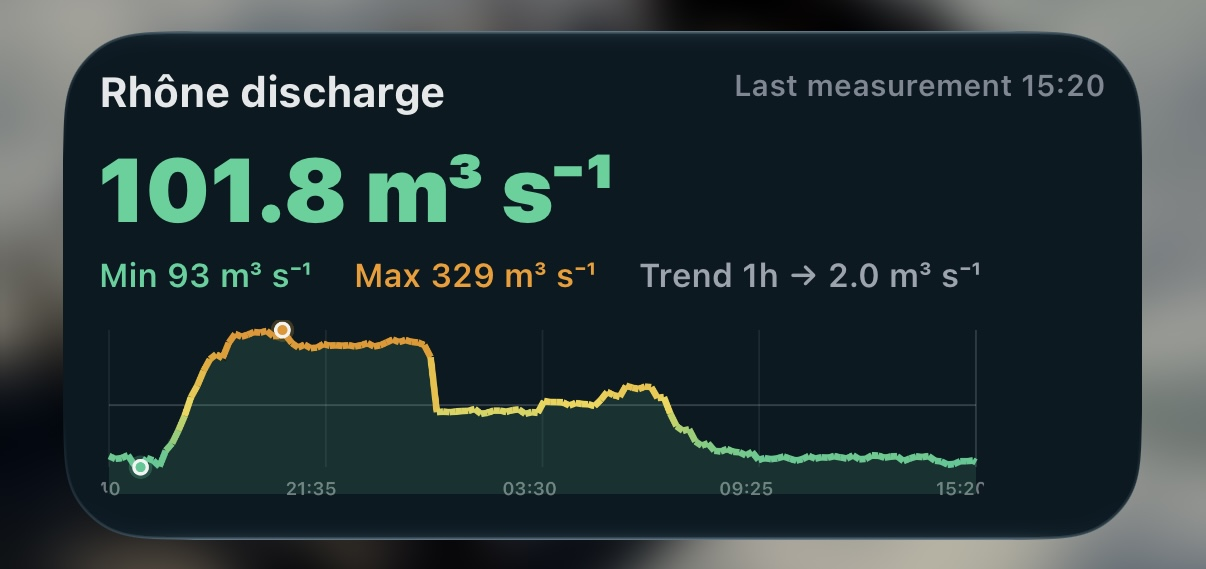
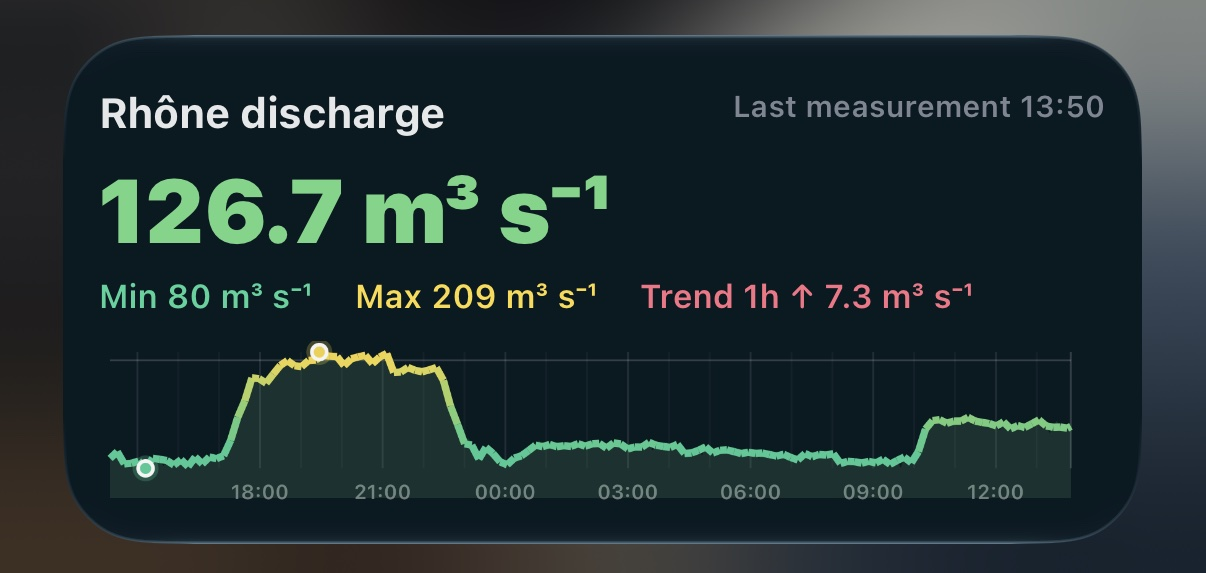
Update README for device-sized chart and refresh screenshot

diff --git a/README.md b/README.md
@@ -35,7 +35,7 @@ Find a station ID from its URL on [hydrodaten.admin.ch](https://www.hydrodaten.a
 
 ### Widget size
 
-Only the **Medium** Home Screen widget is supported for now — layout, fonts, and chart dimensions are all fixed to that size. Small, Large, and Lock Screen/StandBy aren't handled specially; they'll still render (using the Medium layout squeezed into whatever frame iOS gives them) but aren't a supported target yet.
+Only the **Medium** Home Screen widget is supported for now — layout and fonts are fixed to that size, and the chart's proportions are matched to your iPhone's Medium widget dimensions (looked up from the screen size) so it fills the available space. Unrecognized screen sizes, such as iPads, fall back to standard 6.1" iPhone proportions, so the chart may not fill the widget exactly there. Small, Large, and Lock Screen/StandBy aren't handled specially; they'll still render (using the Medium layout squeezed into whatever frame iOS gives them) but aren't a supported target yet.
 
 Tapping the widget opens the station's page on hydrodaten.admin.ch.
 
